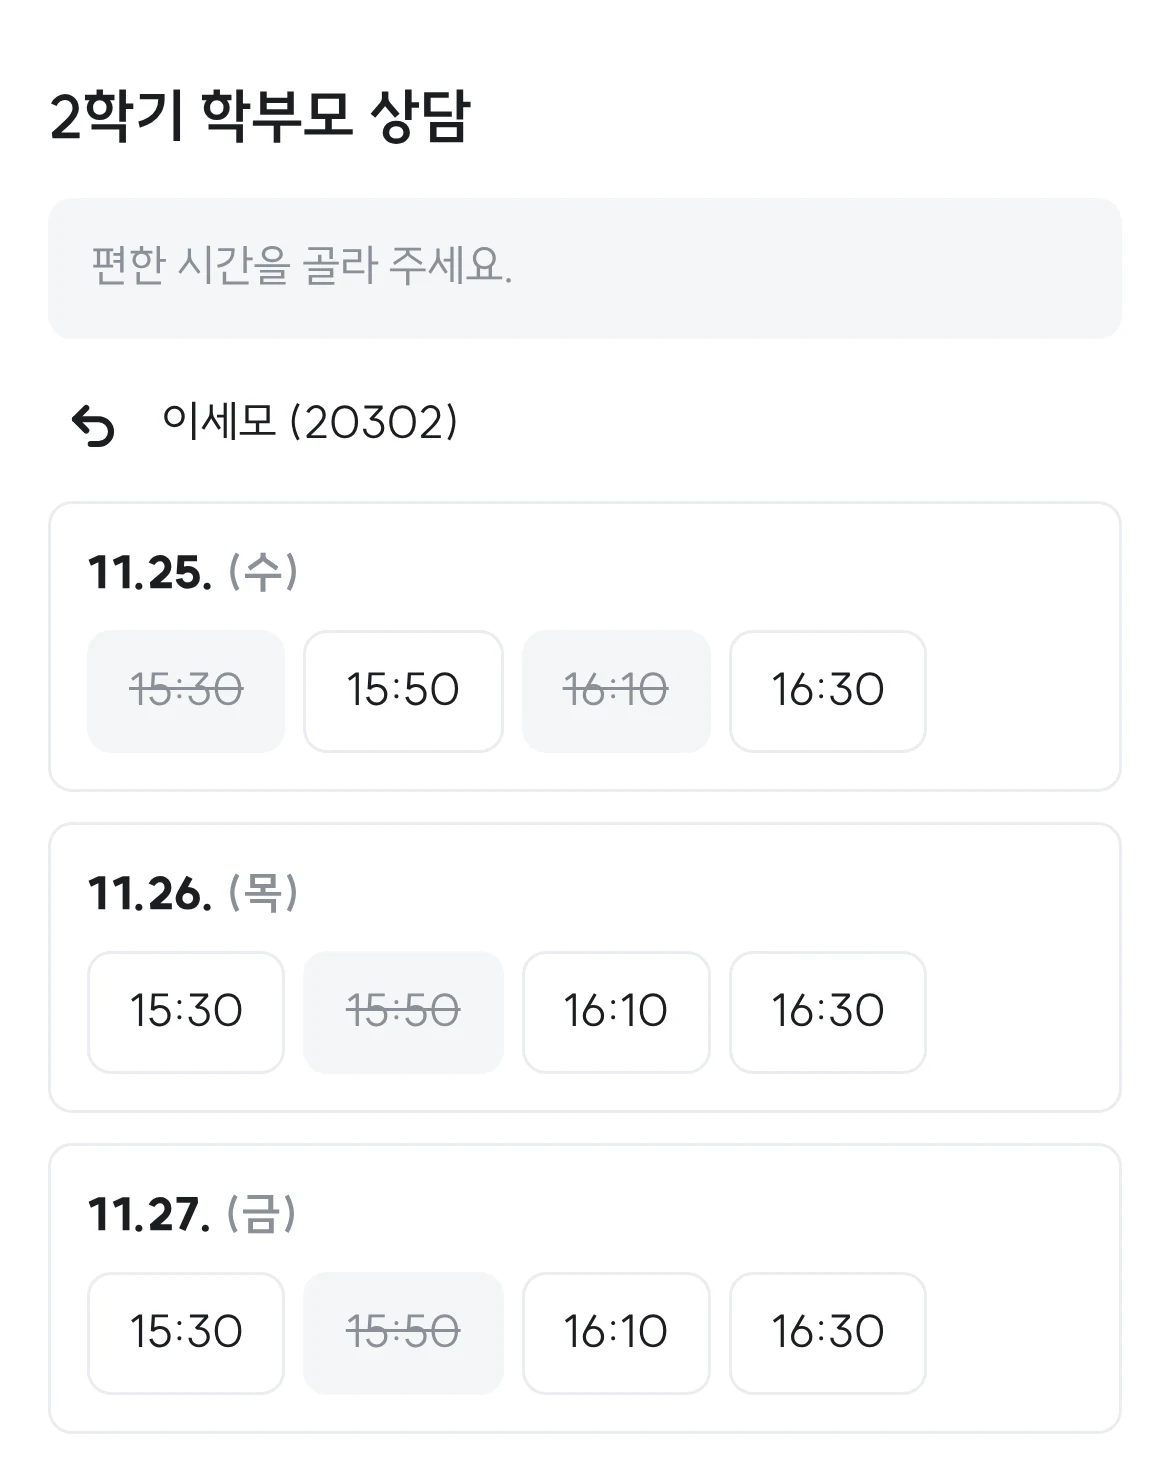
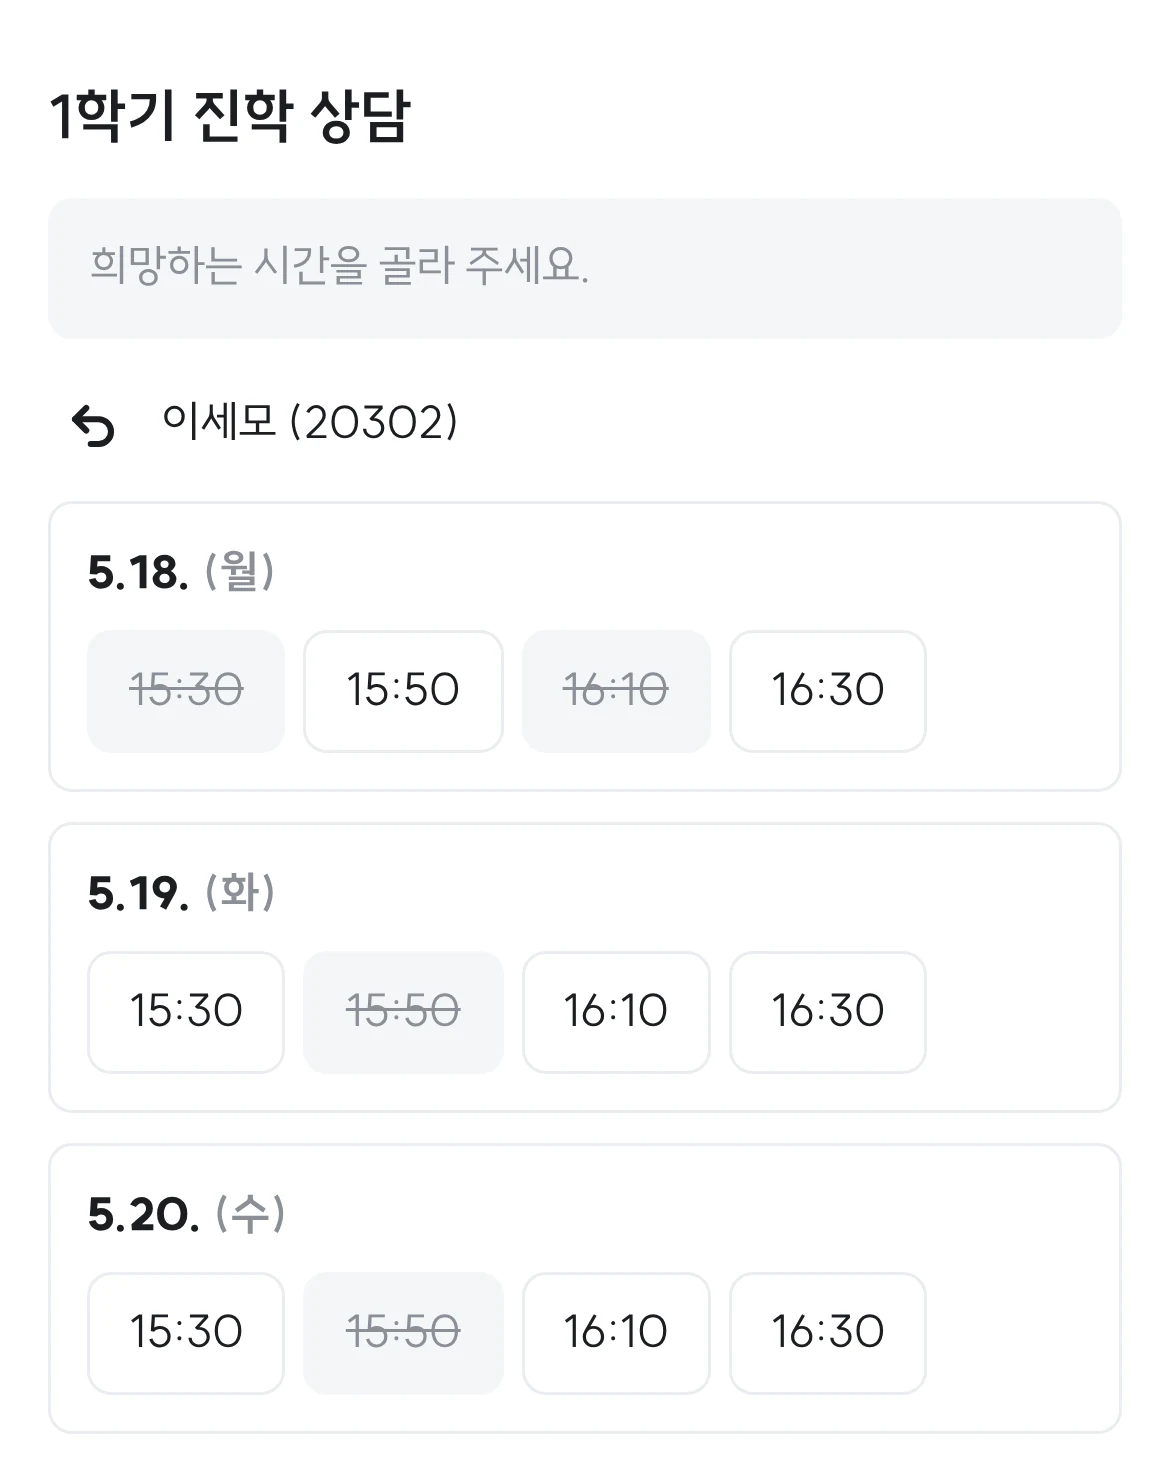
소개 페이지 재작업: 한 줄 제목에 '가벼운' 끼어들기 표시, 버튼 'Windows용 다운로드'·'모바일에서 사용하기'(같은 크기), 사무적 말투, 할 일 3단계, 출결 예시 '오늘부터 3일간', 상담 짧은 설명+입체 휴대폰, 그 밖의 기능 사진첩(알림·급식·진도), 라이트 모드·5월·새 예시 이름
Claude-Session: https://claude.ai/code/session_01B82UywTETwewTykhEM5Uby

diff --git a/index.html b/index.html
@@ -4,7 +4,7 @@
 <meta charset="utf-8">
 <meta name="viewport" content="width=device-width,initial-scale=1,viewport-fit=cover">
 <title>Hagisiro — 바탕화면에 두고 쓰는 가벼운 캘린더</title>
-<meta name="description" content="날짜를 누르고 할 일을 적고, 다 하면 완료. 출결은 문장 한 줄, 상담 신청은 링크 하나로.">
+<meta name="description" content="할 일, 출결, 상담 신청을 바탕화면에서 바로 관리하는 가벼운 캘린더.">
 <meta name="theme-color" content="#6d4aff">
 <link rel="icon" href="app/icons/icon.svg" type="image/svg+xml">
 <script>
@@ -18,14 +18,7 @@
 </script>
 <style>
 @font-face { font-family: "SUITE"; font-weight: 100 900; font-display: swap; src: url("app/fonts/SUITE-Variable.woff2") format("woff2-variations"), url("app/fonts/SUITE-Variable.woff2") format("woff2"); }
-:root {
-  --paper: #f6f5fb; --card: #ffffff; --ink: #1c1a2b; --mut: #625f75; --line: #e3e0ef;
-  --violet: #6d4aff; --violet-ink: #5534f0; --tint: #efebff;
-  --desk-a: #241f4d; --desk-b: #3b2f86; --desk-c: #15807a;
-}
-@media (prefers-color-scheme: dark) {
-  :root { --paper: #15141d; --card: #1f1e2a; --ink: #ecebf3; --mut: #a19fb3; --line: #2e2c3d; --violet: #9b82ff; --violet-ink: #b4a2ff; --tint: #27233f; }
-}
+:root { --paper: #f6f5fb; --card: #ffffff; --ink: #1c1a2b; --mut: #625f75; --line: #e3e0ef; --violet: #6d4aff; --violet-ink: #5534f0; --tint: #efebff; color-scheme: light; }
 * { box-sizing: border-box; }
 html { -webkit-text-size-adjust: 100%; }
 body { margin: 0; background: var(--paper); color: var(--ink); font: 17px/1.7 "SUITE", system-ui, -apple-system, "Apple SD Gothic Neo", "Malgun Gothic", sans-serif; word-break: keep-all; }
@@ -39,41 +32,37 @@ img { max-width: 100%; height: auto; display: block; }
 .brand img { width: 28px; height: 28px; }
 
 /* 첫 화면 */
-.hero { padding: 40px 0 28px; text-align: center; }
-.hero h1 { font-size: clamp(34px, 6vw, 64px); line-height: 1.18; letter-spacing: -.035em; font-weight: 800; margin: 0 auto; max-width: 12em; }
-.hero p { font-size: clamp(18px, 2.2vw, 22px); color: var(--mut); margin: 18px auto 0; }
-.cta { display: flex; flex-wrap: wrap; justify-content: center; gap: 10px; margin-top: 32px; }
-.btn { display: inline-flex; align-items: center; gap: 9px; padding: 14px 24px; border-radius: 13px; font-weight: 700; font-size: 17px; text-decoration: none; }
+.hero { padding: 56px 0 28px; text-align: center; }
+.hero h1 { font-size: clamp(22px, 5.4vw, 58px); line-height: 1.2; letter-spacing: -.035em; font-weight: 800; margin: 0; white-space: nowrap; padding-top: .9em; }
+/* 교정부호 '끼어들기': 줄 위에 기울여 쓴 말 + 끼워 넣을 자리를 가리키는 ∨ */
+.ins { position: relative; display: inline-block; width: .56em; height: 1em; vertical-align: baseline; }
+.ins b { position: absolute; left: 50%; bottom: .98em; transform: translateX(-50%) rotate(-6deg); transform-origin: 50% 100%; color: var(--violet); font-weight: 800; font-size: .58em; white-space: nowrap; font-style: italic; letter-spacing: -.02em; }
+.ins svg { position: absolute; left: 50%; bottom: .12em; width: .4em; height: .78em; transform: translateX(-50%); overflow: visible; }
+.hero p { font-size: clamp(16px, 2vw, 20px); color: var(--mut); margin: 18px 0 0; }
+.cta { display: grid; grid-template-columns: repeat(2, minmax(0, 220px)); justify-content: center; gap: 10px; margin-top: 30px; }
+.btn { display: flex; align-items: center; justify-content: center; gap: 9px; height: 54px; padding: 0 18px; border-radius: 13px; font-weight: 700; font-size: 17px; text-decoration: none; white-space: nowrap; }
 .btn svg { width: 19px; height: 19px; flex: none; }
 .btn.pri { background: var(--violet); color: #fff; }
 .btn.pri:hover { background: var(--violet-ink); }
-.btn.sub { background: var(--card); box-shadow: inset 0 0 0 1px var(--line); }
-.btn.sub:hover { box-shadow: inset 0 0 0 1px var(--mut); }
+.btn.alt { background: var(--card); box-shadow: inset 0 0 0 1px var(--line); }
+.btn.alt:hover { box-shadow: inset 0 0 0 1px var(--mut); }
 
-/* 바탕화면 장면 */
 .desk { position: relative; margin-top: 52px; border-radius: 22px; overflow: hidden; aspect-ratio: 16 / 9.4; background:
-  radial-gradient(60% 80% at 85% 15%, color-mix(in srgb, var(--desk-c) 70%, transparent), transparent 70%),
-  radial-gradient(70% 90% at 10% 100%, var(--desk-b), transparent 70%),
-  linear-gradient(160deg, var(--desk-a), #120f2a); }
-.desk .icons { position: absolute; left: 3.2%; top: 6%; display: grid; gap: 4.2%; width: 6.5%; height: 70%; grid-auto-rows: 9%; }
-.desk .icons i { border-radius: 18%; background: rgba(255,255,255,.14); }
-.desk .widget { display: block; position: absolute; left: 19%; top: 7%; width: 62%; filter: drop-shadow(0 18px 40px rgba(0,0,0,.35)); }
-.desk .widget img { border-radius: 10px; width: 100%; }
-.desk .taskbar { position: absolute; left: 0; right: 0; bottom: 0; height: 6.5%; background: rgba(20,18,40,.55); }
+  radial-gradient(60% 80% at 85% 15%, rgba(21,128,122,.7), transparent 70%),
+  radial-gradient(70% 90% at 10% 100%, #3b2f86, transparent 70%),
+  linear-gradient(160deg, #241f4d, #120f2a); }
+.desk img { position: absolute; left: 19%; top: 7%; width: 62%; border-radius: 10px; filter: drop-shadow(0 18px 40px rgba(0,0,0,.35)); }
+.desk i { position: absolute; left: 0; right: 0; bottom: 0; height: 6.5%; background: rgba(20,18,40,.55); }
 
 /* 본문 */
-section { padding: 88px 0 8px; }
+section { padding: 96px 0 8px; }
 .two { display: grid; gap: 36px; align-items: center; }
-h2 { font-size: clamp(28px, 4vw, 42px); line-height: 1.25; letter-spacing: -.03em; margin: 0; font-weight: 800; }
-.sub { color: var(--mut); margin: 12px 0 0; font-size: 18px; }
-.steps { list-style: none; margin: 26px 0 0; padding: 0; display: grid; gap: 14px; counter-reset: s; }
-.steps li { counter-increment: s; display: grid; grid-template-columns: 34px 1fr; gap: 12px; align-items: start; font-size: 18px; }
-.steps li::before { content: counter(s); width: 30px; height: 30px; border-radius: 50%; background: var(--violet); color: #fff; font-weight: 800; font-size: 15px; display: grid; place-items: center; margin-top: 1px; }
-.steps small { display: block; color: var(--mut); font-size: 15px; margin-top: 2px; }
+h2 { font-size: clamp(28px, 4vw, 40px); line-height: 1.25; letter-spacing: -.03em; margin: 0; font-weight: 800; }
+.lede { color: var(--mut); margin: 12px 0 0; font-size: 18px; max-width: 34em; }
+.steps { list-style: none; margin: 26px 0 0; padding: 0; display: grid; gap: 12px; counter-reset: s; }
+.steps li { counter-increment: s; display: flex; align-items: center; gap: 12px; font-size: 20px; font-weight: 700; }
+.steps li::before { content: counter(s); width: 30px; height: 30px; flex: none; border-radius: 50%; background: var(--violet); color: #fff; font-size: 15px; display: grid; place-items: center; }
 .shot { border-radius: 14px; overflow: hidden; box-shadow: 0 0 0 1px var(--line), 0 24px 60px -24px rgba(40,30,90,.4); background: #fff; }
-.shot.dk { background: #1f2228; }
-.phone { width: min(260px, 70%); margin-inline: auto; border-radius: 30px; padding: 10px; background: #1c1a2b; box-shadow: 0 24px 60px -24px rgba(40,30,90,.5); }
-.phone img { border-radius: 22px; }
 
 /* 출결 직접 해 보기 */
 .demo { margin-top: 30px; background: var(--card); border-radius: 20px; box-shadow: inset 0 0 0 1px var(--line); padding: 22px; }
@@ -88,21 +77,40 @@ h2 { font-size: clamp(28px, 4vw, 42px); line-height: 1.25; letter-spacing: -.03e
 .rec .m { color: var(--mut); }
 .empty { color: var(--mut); font-size: 15px; padding: 12px 2px; margin: 0; }
 
-/* 그 밖에 */
-.etc { padding-bottom: 110px; }
-.chips { display: flex; flex-wrap: wrap; gap: 8px; margin-top: 22px; }
-.chips span { font-size: 16px; padding: 8px 14px; border-radius: 11px; background: var(--card); box-shadow: inset 0 0 0 1px var(--line); }
+/* 상담: 선생님 표 + 비스듬히 놓인 학생 휴대폰 */
+.cstage { position: relative; padding-bottom: 40px; }
+.cstage .shot { width: 86%; }
+.p3d { position: absolute; right: 0; bottom: -10px; width: 34%; min-width: 170px; perspective: 1400px; }
+.phone { position: relative; border-radius: 15% / 7.5%; padding: 4.2%; background: linear-gradient(145deg, #3a3846, #15141c 60%);
+  transform: rotateY(-26deg) rotateX(14deg) rotateZ(4deg); transform-style: preserve-3d;
+  box-shadow: 1px 1px 0 #2c2b36, 2px 2px 0 #29282f, 3px 3px 0 #26252c, 4px 4px 0 #232229, 5px 5px 0 #201f26, 6px 6px 0 #1d1c23, 7px 7px 0 #1a1920,
+    -26px 46px 50px -10px rgba(25,18,60,.45), -8px 14px 18px rgba(25,18,60,.25); }
+.phone img { border-radius: 11% / 5.5%; }
+.phone::before { content: ""; position: absolute; top: 5.4%; left: 50%; width: 28%; height: 2.6%; transform: translateX(-50%); border-radius: 99px; background: #0d0c12; z-index: 1; }
+.phone::after { content: ""; position: absolute; inset: 4.2%; border-radius: 11% / 5.5%; background: linear-gradient(115deg, rgba(255,255,255,.28), rgba(255,255,255,0) 38%); pointer-events: none; }
+.phone b { position: absolute; left: -2.2%; width: 2.2%; border-radius: 3px 0 0 3px; background: #2a2933; }
+.phone b:nth-of-type(1) { top: 20%; height: 7%; } .phone b:nth-of-type(2) { top: 29%; height: 10%; }
+
+/* 그 밖에: 사진첩 */
+.album { display: grid; grid-template-columns: repeat(3, minmax(0, 1fr)); gap: 26px; margin-top: 40px; padding-bottom: 120px; }
+.album figure { margin: 0; background: #fff; padding: 12px 12px 14px; border-radius: 6px; box-shadow: 0 1px 2px rgba(0,0,0,.06), 0 18px 40px -18px rgba(40,30,90,.35); }
+.album figure:nth-child(1) { transform: rotate(-2.2deg); } .album figure:nth-child(2) { transform: rotate(1.4deg) translateY(10px); } .album figure:nth-child(3) { transform: rotate(-1deg); }
+.album .ph { aspect-ratio: 4 / 3; overflow: hidden; border-radius: 3px; background: #f1f0f6; display: grid; place-items: center; }
+.album .ph img { width: 100%; height: 100%; object-fit: cover; object-position: top left; }
+.album figcaption { margin-top: 10px; font-weight: 700; text-align: center; font-size: 16px; }
 
 @media (min-width: 880px) {
   .two { grid-template-columns: 5fr 7fr; gap: 56px; }
-  .two.cons { grid-template-columns: 6fr 6fr; }
 }
-@media (max-width: 620px) {
-  .desk .icons { display: none; }
-  .desk .widget { left: 6%; width: 88%; }
+@media (max-width: 700px) {
+  .cta { grid-template-columns: minmax(0, 1fr); width: min(320px, 100%); margin-inline: auto; }
+  .desk img { left: 6%; width: 88%; }
   .rec { grid-template-columns: 1fr 1fr; }
   .rec .m.r { grid-column: 1 / -1; }
   section { padding-top: 64px; }
+  .album { grid-template-columns: minmax(0, 1fr); gap: 22px; }
+  .cstage .shot { width: 100%; }
+  .p3d { position: relative; width: 56%; margin: -30px 0 0 auto; }
 }
 </style>
 </head>
@@ -111,19 +119,14 @@ h2 { font-size: clamp(28px, 4vw, 42px); line-height: 1.25; letter-spacing: -.03e
   <header class="bar"><a class="brand" href="./"><img src="app/icons/icon.svg" alt="">Hagisiro</a></header>
 
   <div class="hero">
-    <h1>바탕화면에 두고 쓰는 가벼운 캘린더</h1>
-    <p>날짜를 누르고 할 일을 적고, 다 하면 완료. 그게 다예요.</p>
+    <h1>바탕화면에 두고 쓰는<span class="ins"><b>가벼운</b><svg viewBox="0 0 20 30" fill="none" stroke="#6d4aff" stroke-width="2.4" preserveAspectRatio="none" stroke-linecap="round" stroke-linejoin="round" aria-hidden="true"><path d="M2 2 10 28 18 2"/></svg></span>캘린더</h1>
+    <p>할 일, 출결, 상담 신청을 바탕화면에서 바로 관리합니다.</p>
     <div class="cta">
-      <a class="btn pri" href="https://github.com/iruroda/hagisiro/releases/download/widget-latest/Hagisiro-Setup.exe"><svg viewBox="0 0 24 24" fill="none" stroke="currentColor" stroke-width="2" stroke-linecap="round" stroke-linejoin="round" aria-hidden="true"><path d="M12 4v11M7 10.5l5 5 5-5M5 20h14"/></svg>Windows용 내려받기</a>
-      <a class="btn sub" href="app/"><svg viewBox="0 0 24 24" fill="none" stroke="currentColor" stroke-width="2" stroke-linecap="round" stroke-linejoin="round" aria-hidden="true"><rect x="6.5" y="2.5" width="11" height="19" rx="2.5"/><path d="M10.5 18.5h3"/></svg>모바일에서 쓰기</a>
+      <a class="btn pri" href="https://github.com/iruroda/hagisiro/releases/download/widget-latest/Hagisiro-Setup.exe"><svg viewBox="0 0 24 24" fill="none" stroke="currentColor" stroke-width="2" stroke-linecap="round" stroke-linejoin="round" aria-hidden="true"><path d="M12 4v11M7 10.5l5 5 5-5M5 20h14"/></svg>Windows용 다운로드</a>
+      <a class="btn alt" href="app/"><svg viewBox="0 0 24 24" fill="none" stroke="currentColor" stroke-width="2" stroke-linecap="round" stroke-linejoin="round" aria-hidden="true"><rect x="6.5" y="2.5" width="11" height="19" rx="2.5"/><path d="M10.5 18.5h3"/></svg>모바일에서 사용하기</a>
     </div>
     <div class="desk" role="img" aria-label="바탕화면 한쪽에 반투명하게 떠 있는 Hagisiro 캘린더">
-      <div class="icons" aria-hidden="true"><i></i><i></i><i></i><i></i><i></i></div>
-      <picture class="widget">
-        <source srcset="site/widget-dark.webp" media="(prefers-color-scheme: dark)">
-        <img src="site/widget-light.webp" alt="" width="1600" height="1240">
-      </picture>
-      <div class="taskbar" aria-hidden="true"></div>
+      <img src="site/widget.webp" alt="" width="1600" height="1240"><i></i>
     </div>
   </div>
 </div>
@@ -132,55 +135,47 @@ h2 { font-size: clamp(28px, 4vw, 42px); line-height: 1.25; letter-spacing: -.03e
   <section>
     <div class="two">
       <div>
-        <h2>할 일은 세 번이면 끝</h2>
-        <p class="sub">창을 열고 메뉴를 찾을 필요 없이, 늘 보이는 바탕화면에서 바로 적고 바로 지워요.</p>
-        <ol class="steps">
-          <li><span>날짜 칸을 두 번 눌러요<small>폰에서는 한 번</small></span></li>
-          <li><span>할 일을 적어요<small>엔터를 누르면 다음 줄</small></span></li>
-          <li><span>다 한 일은 완료를 눌러요<small>줄이 그어지고 아래로 내려가요</small></span></li>
-        </ol>
+        <h2>할 일은 세 단계</h2>
+        <ol class="steps"><li>날짜 선택</li><li>할 일 입력</li><li>완료 체크</li></ol>
       </div>
-      <div class="shot dk"><img src="site/widget-dark.webp" alt="할 일이 적힌 한 달 캘린더" width="1600" height="1240"></div>
+      <div class="shot"><img src="site/todo.webp" alt="날짜를 선택해 할 일을 입력하는 화면" width="1600" height="1240"></div>
     </div>
   </section>
 
   <section>
     <h2>출결은 문장 한 줄</h2>
-    <p class="sub">평소 말하듯 적고 엔터를 누르면, 날짜와 종류, 교시, 사유를 알아서 나눠 기록해요. 아래에 직접 적어 보세요.</p>
+    <p class="lede">문장으로 입력하면 날짜, 종류, 교시, 사유가 자동으로 기록됩니다.</p>
     <div class="demo">
-      <input id="q" aria-label="출결 문장 (학생: 김네모, 이세모, 박동그)" autocomplete="off" spellcheck="false" value="이세모 감기로 2교시 후 조퇴">
+      <input id="q" aria-label="출결 문장 (학생: 1번 김네모, 2번 이세모, 3번 박동글)" autocomplete="off" spellcheck="false" value="이세모 감기로 2교시 후 조퇴">
       <div class="samples" aria-label="예시 문장">
-        <button type="button">박동그 3교시까지 지각</button>
+        <button type="button">박동글 3교시까지 지각</button>
         <button type="button">김네모, 이세모 금요일 체험학습 결석</button>
-        <button type="button">2번 11/3~11/5 독감으로 결석</button>
+        <button type="button">2번 오늘부터 3일간 독감으로 결석</button>
       </div>
       <div class="result" id="out" aria-live="polite"></div>
     </div>
   </section>
 
   <section>
-    <div class="two cons">
+    <div class="two">
       <div>
         <h2>상담 신청은 링크 하나로</h2>
-        <p class="sub">시간 맞추느라 메시지를 여러 번 주고받지 않아도 돼요. 학생이 빈 시간을 직접 고르고, 내 표에 바로 채워져요.</p>
-        <ol class="steps">
-          <li><span>상담할 날짜와 시간을 골라 신청표를 만들어요<small>시작·끝 날짜, 시간, 상담 간격만 정하면 칸이 만들어져요</small></span></li>
-          <li><span>링크를 복사해서 학생과 학부모에게 보내요</span></li>
-          <li><span>학생은 학번과 이름을 넣고 빈 시간을 골라요<small>이미 찬 시간은 고를 수 없어요. 한 사람이 한 번만 신청하게 할 수도 있어요</small></span></li>
-          <li><span>신청이 들어오면 내 표에 이름이 바로 채워져요<small>신청 마감 시각도 정해 둘 수 있어요</small></span></li>
-        </ol>
+        <p class="lede">상담 가능한 날짜와 시간으로 신청표를 만들어 학생에게 링크를 보내면, 학생이 빈 시간을 골라 신청합니다. 신청 내용은 내 표에 바로 반영됩니다.</p>
       </div>
-      <div>
+      <div class="cstage">
         <div class="shot"><img src="site/consult.webp" alt="날짜별 상담 시간에 신청한 학생 이름이 채워진 상담표" width="1600" height="720"></div>
-        <div class="phone" style="margin-top:-36px;position:relative"><img src="site/book.webp" alt="학생이 휴대폰에서 빈 상담 시간을 고르는 화면" width="1170" height="1470"></div>
+        <div class="p3d"><div class="phone"><b></b><b></b><img src="site/book.webp" alt="학생이 휴대폰에서 빈 상담 시간을 고르는 화면" width="1170" height="1470"></div></div>
       </div>
     </div>
   </section>
 
-  <section class="etc">
-    <h2>그 밖에</h2>
-    <p class="sub">위쪽 버튼 하나로 바로 열어 봐요.</p>
-    <div class="chips"><span>오늘 급식</span><span>연락처</span><span>일과 시간표</span><span>내 시간표</span><span>진도 확인</span><span>D-day</span><span>할 일 알림</span></div>
+  <section>
+    <h2>그 밖의 기능</h2>
+    <div class="album">
+      <figure><div class="ph"><img src="site/alarm.webp" alt="바탕화면 오른쪽 아래에 뜬 할 일 알림" width="1280" height="840"></div><figcaption>할 일 알림</figcaption></figure>
+      <figure><div class="ph"><img src="site/meal.webp" alt="요일별 급식 표" width="1536" height="692"></div><figcaption>급식 확인</figcaption></figure>
+      <figure><div class="ph"><img src="site/prog.webp" alt="과목별 날짜마다 수업 진도가 적힌 표" width="1536" height="536"></div><figcaption>진도 확인</figcaption></figure>
+    </div>
   </section>
 </main>
 
@@ -188,14 +183,14 @@ h2 { font-size: clamp(28px, 4vw, 42px); line-height: 1.25; letter-spacing: -.03e
 <script>
 (function () {
   var P = window.Parser, q = document.getElementById('q'), out = document.getElementById('out');
-  var students = [{ id: 'a', no: 1, name: '김네모' }, { id: 'b', no: 2, name: '이세모' }, { id: 'c', no: 3, name: '박동그' }];
-  var DOW = ['일', '월', '화', '수', '목', '금', '토'];
+  var students = [{ id: 'a', no: 1, name: '김네모' }, { id: 'b', no: 2, name: '이세모' }, { id: 'c', no: 3, name: '박동글' }];
+  var TODAY = new Date(2026, 4, 13), DOW = ['일', '월', '화', '수', '목', '금', '토'];
   function md(s) { var d = new Date(s + 'T00:00'); return (d.getMonth() + 1) + '월 ' + d.getDate() + '일 (' + DOW[d.getDay()] + ')'; }
   function show() {
     if (!P) return;
-    var r = P.parse(q.value, { students: students, today: new Date() });
+    var r = P.parse(q.value, { students: students, today: TODAY });
     out.replaceChildren();
-    if (!r.items.length) { var e = document.createElement('p'); e.className = 'empty'; e.textContent = q.value.trim() ? '학생 이름(김네모, 이세모, 박동그)이나 번호를 함께 적어 보세요.' : '위 칸에 출결 문장을 적어 보세요.'; out.append(e); return; }
+    if (!r.items.length) { var e = document.createElement('p'); e.className = 'empty'; e.textContent = q.value.trim() ? '학생 이름(김네모, 이세모, 박동글)이나 번호를 함께 입력하세요.' : '출결 문장을 입력하세요.'; out.append(e); return; }
     r.items.slice(0, 6).forEach(function (it) {
       var row = document.createElement('div'); row.className = 'rec';
       [['k', it.name], ['m', md(it.date)], ['t ' + it.type, it.cat + it.type], ['m', P.rangeLabel(it.from, it.to)], ['m r', it.reason || '사유 없음']].forEach(function (c) {
@@ -203,7 +198,6 @@ h2 { font-size: clamp(28px, 4vw, 42px); line-height: 1.25; letter-spacing: -.03e
       });
       out.append(row);
     });
-    if (r.items.length > 6) { var m = document.createElement('p'); m.className = 'empty'; m.textContent = '외 ' + (r.items.length - 6) + '건'; out.append(m); }
   }
   q.addEventListener('input', show);
   document.querySelectorAll('.samples button').forEach(function (b) { b.addEventListener('click', function () { q.value = b.textContent; show(); q.focus(); }); });
